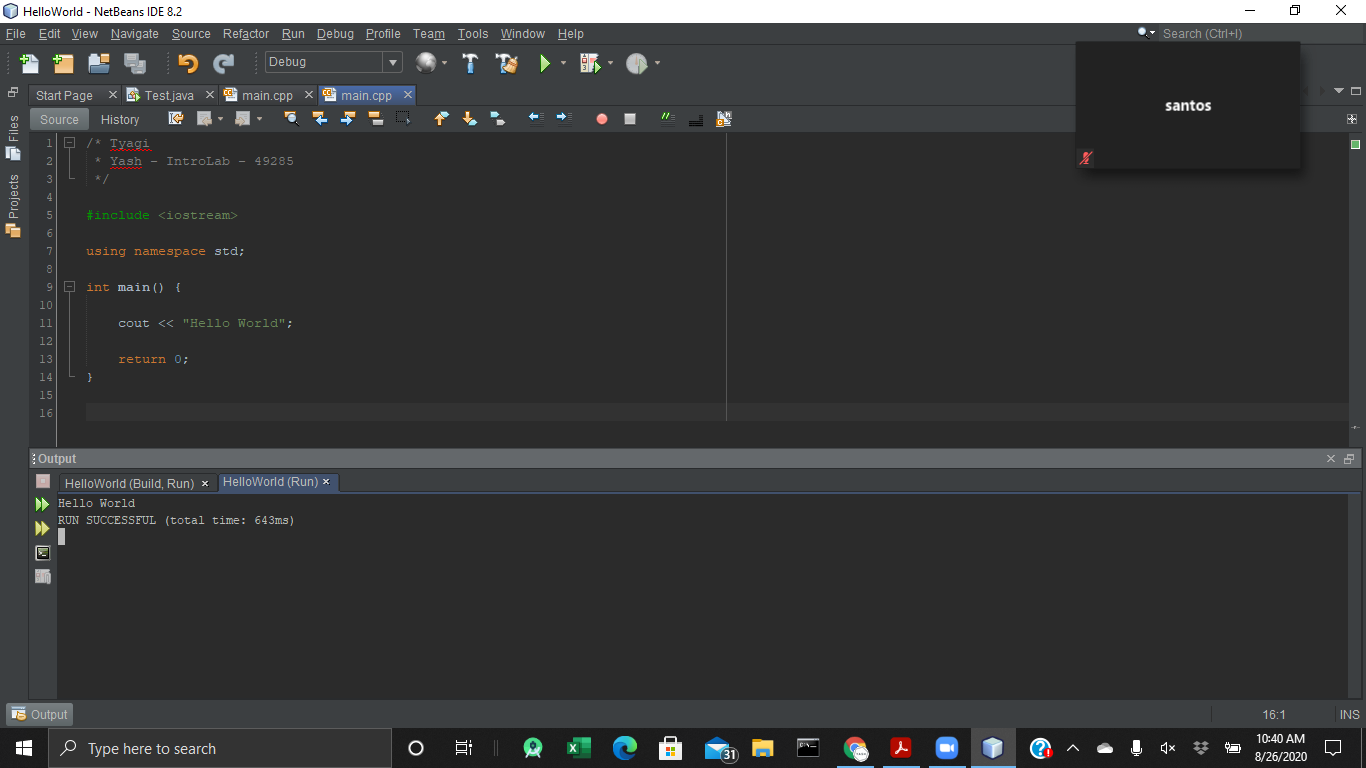
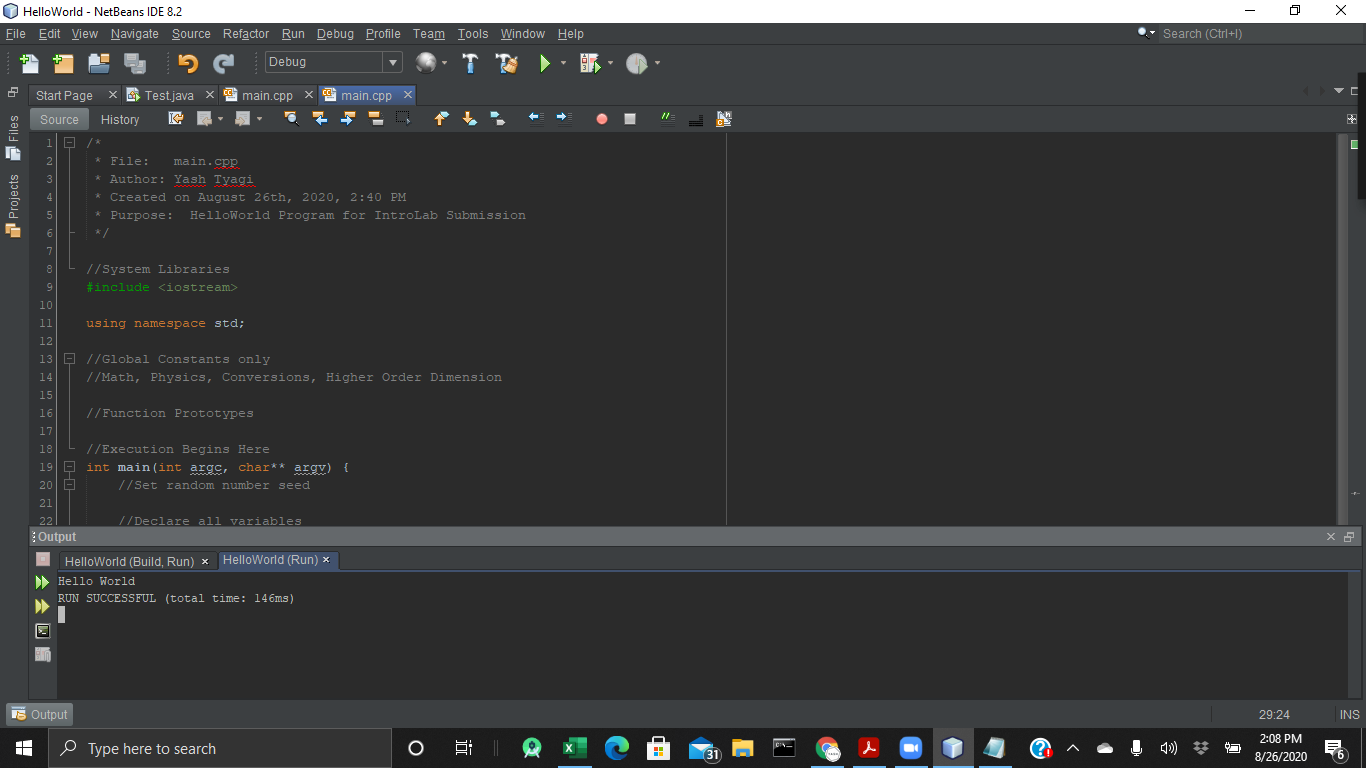
Signed-off-by: Yash Tyagi <ytyagi1@student.rccd.edu>

diff --git a/Lab/IntroLab/HelloWorld/main.cpp b/Lab/IntroLab/HelloWorld/main.cpp
@@ -1,15 +1,33 @@
-/* Tyagi
- * Yash - IntroLab - 49285
+/* 
+ * File:   main.cpp
+ * Author: Yash Tyagi
+ * Created on August 26th, 2020, 2:40 PM
+ * Purpose:  HelloWorld Program for IntroLab Submission
  */
 
+//System Libraries
 #include <iostream>
 
 using namespace std;
 
-int main() {
+//Global Constants only
+//Math, Physics, Conversions, Higher Order Dimension 
 
+//Function Prototypes
+
+//Execution Begins Here
+int main(int argc, char** argv) {
+    //Set random number seed
+    
+    //Declare all variables
+    
+    //Initialize Variables
+
+    //Display Outputs
     cout << "Hello World";
+    
+    //Exist Stage Right
+    exit(0);
     
     return 0;
 }
-
